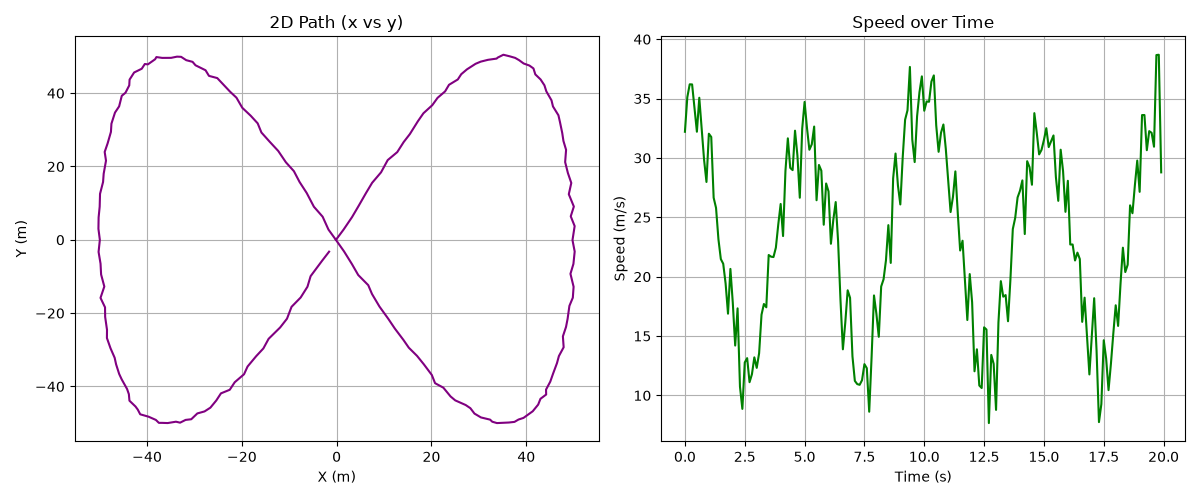
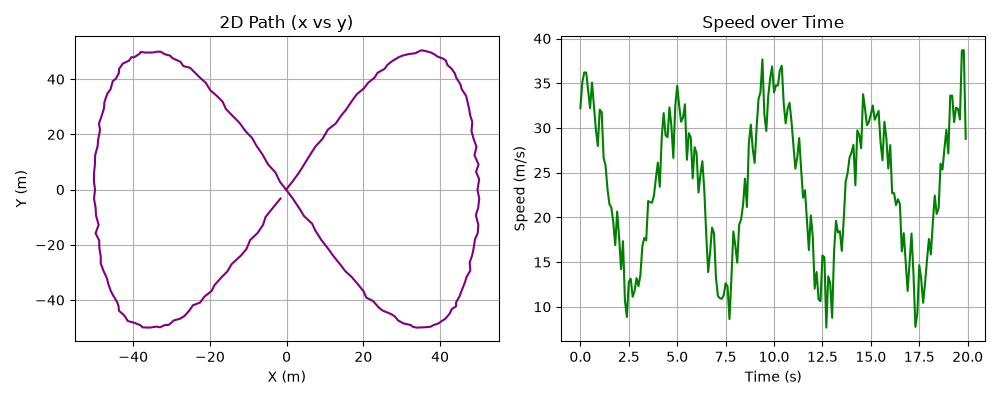
Add Bonus 2D trajectory analysis

Changed region(s): [[0.0, 0.03, 0.992, 0.96], [0.341, 0.45, 0.372, 0.51], [0.186, 0.45, 0.217, 0.51]]

diff --git a/PW2/Lab A/analysis.py b/PW2/Lab A/analysis.py
@@ -75,3 +75,28 @@ try:
     plt.savefig('trajectory_2d.png')
 except OSError:
     pass
+
+
+# Bonus: 2D Trajectory
+traj_data = np.genfromtxt('trajectory.csv', delimiter=',', skip_header=1)
+t_2d, x_2d, y_2d = traj_data[:, 0], traj_data[:, 1], traj_data[:, 2]
+
+vx = np.gradient(x_2d, t_2d)
+vy = np.gradient(y_2d, t_2d)
+speed = np.sqrt(vx**2 + vy**2)
+
+fig_bonus, (ax_path, ax_speed) = plt.subplots(1, 2, figsize=(10, 4))
+ax_path.plot(x_2d, y_2d, color='purple')
+ax_path.set_title('2D Path (x vs y)')
+ax_path.set_xlabel('X (m)')
+ax_path.set_ylabel('Y (m)')
+ax_path.grid(True)
+
+ax_speed.plot(t_2d, speed, color='green')
+ax_speed.set_title('Speed over Time')
+ax_speed.set_xlabel('Time (s)')
+ax_speed.set_ylabel('Speed (m/s)')
+ax_speed.grid(True)
+
+plt.tight_layout()
+plt.savefig('trajectory_2d.png')
